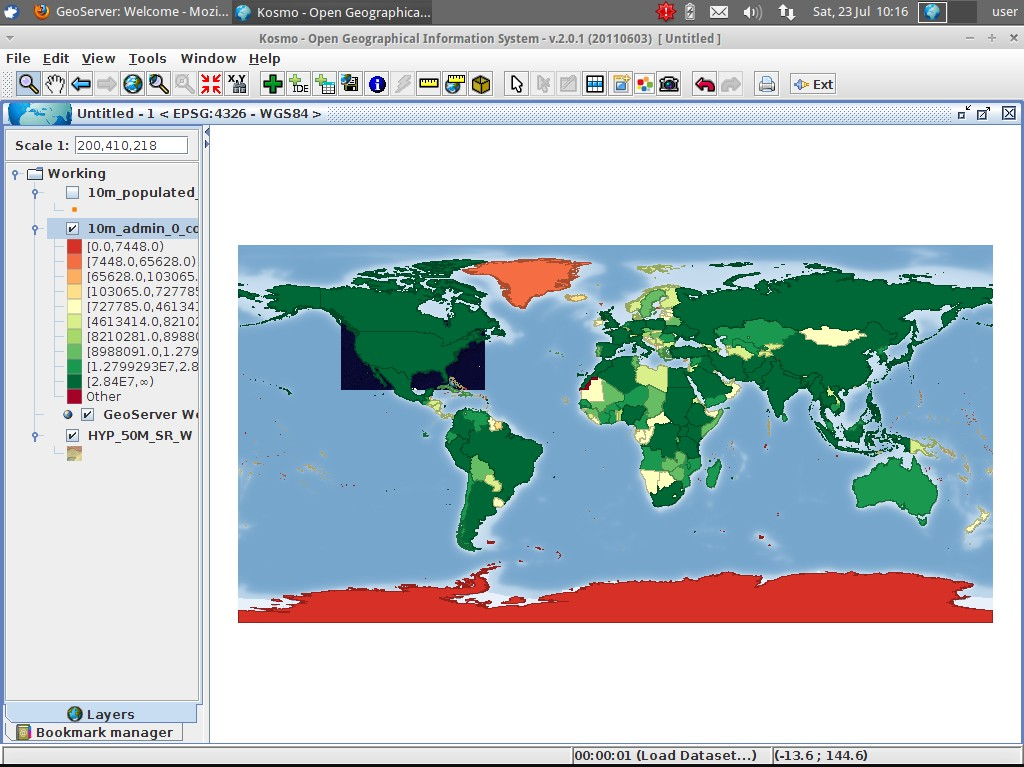
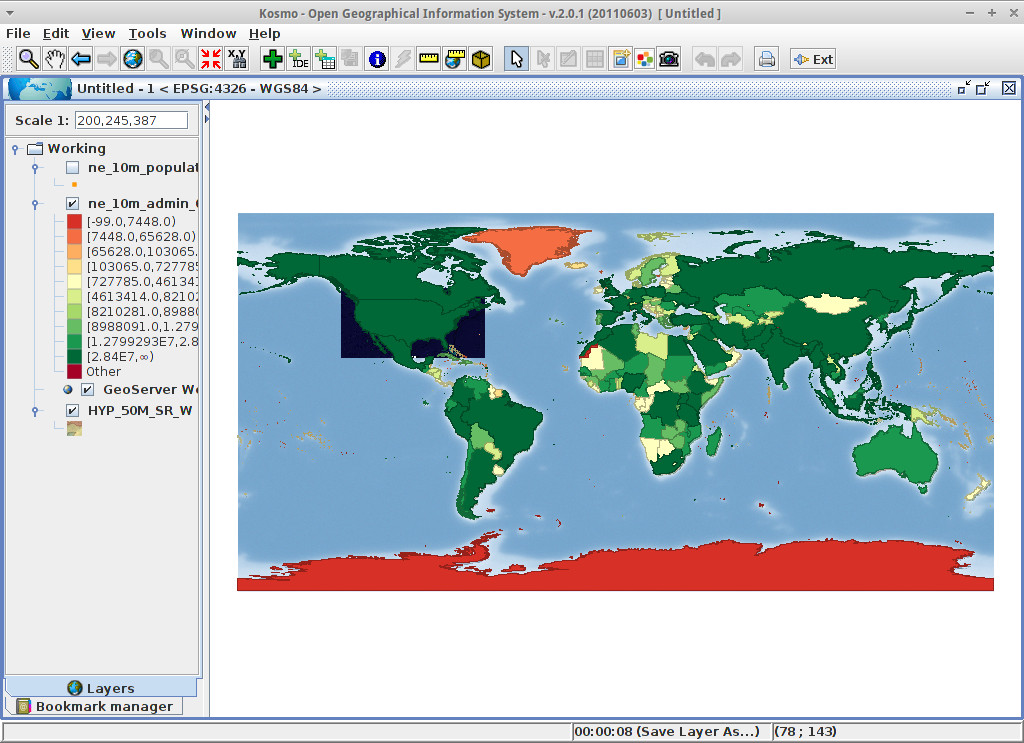
1) Added new Advanced Styling and Extensions sections 2) Updated previous screenshots to reflect the natural_earth2 dataset name changes 3) Changed some file name paths

diff --git a/livedvd/gisvm/trunk/doc/en/quickstart/kosmo_quickstart.rst b/livedvd/gisvm/trunk/doc/en/quickstart/kosmo_quickstart.rst
@@ -95,19 +95,19 @@ To start out, we're going to load some of the sample data included on the OSGeo-
 
 #. In the *Format* combobox, select *Shapefile* (**1**)
 
-#. In the file chooser, select the file :file:`ne_10m_admin_0_countries.shp` from the directory :file:`/usr/local/share/data/natural_earth2` (**2**)
+#. In the file chooser, select the file :file:`ne_10m_admin_0_countries.shp` from the directory :file:`/home/user/data/natural_earth2` (**2**)
 
 #. Press the *Ok* button to load the selected shapefile (**3**)
 
    .. image:: ../../images/screenshots/800x600/kosmo_select_shape_file.png
 
-#. In the layer tree, press the visibility checkbox to make the layer visible, right clicking on the *Working* folder if needed
+#. In the layer tree, press the visibility checkbox to make the layer visible
 
 #. Choose again the option *View > Load Dataset...* or push the button with the green plus from the main toolbar
 
 #. In the *Format* combobox, select *Image file* (**1**)
 
-#. In the file chooser, select the file :file:`HYP_50M_SR_W.tif` from the directory :file:`/usr/local/share/data/natural_earth2/` (**2**)
+#. In the file chooser, select the file :file:`HYP_50M_SR_W.tif` from the directory :file:`/home/user/data/natural_earth2/` (**2**)
 
 #. Press the *Ok* button to load the selected image file (**3**)
 
@@ -122,8 +122,8 @@ To start out, we're going to load some of the sample data included on the OSGeo-
 .. note::
   The OSGeo-Live DVD contains some file data examples in the following directories:
   
-  * :file:`~/data` (a shortcut to :file:`/usr/local/share/data` or :file:`/home/user/data`)
-  * :file:`/usr/local/share/openjump/data`
+  * :file:`/home/user/data` (shapefiles and raster files)
+  * :file:`/usr/local/share/OpenJUMP/sample_data` (shapefiles)
       
   You can try to load more examples from those directories. Remember to select the correct format from the *Format* combobox       
 
@@ -274,8 +274,7 @@ Apart from those tools, it's also available the possibility to zoom in/out by us
   If any tool/menu option is disabled, you can place the cursor over the button/option to see a tooltip where the reason is shown 
 
 
-
-Styling
+Basic Styling
 ================================================================================
 
 In this section we're going to style a layer by range using the country population as styling attribute:
@@ -298,12 +297,86 @@ In this section we're going to style a layer by range using the country populati
 
    .. image:: ../../images/screenshots/1024x768/kosmo_styled_layer_by_range.jpg
      :scale: 70 %
+     
+     
+
+Advanced Styling
+================================================================================
+
+In this section we're going to style a layer with some rules and filters, based on an attribute. The example shows how to create two rules, one for capital populated places and other for the rest of them:
+
+#. Select the layer `ne_10m_populated_places` in the layer tree
+
+#. Right click on it and select the option *Simbology > Advanced Style Editor...*
+
+#. Select the feature type style `ne_10m_populated_places` (**1**) and press the + button (**2**) to add a new rule to it 
+
+   .. image:: ../../images/screenshots/800x600/kosmo_advanced_style_feature_type.png
+ 
+#. Select `Point symbolizer` as symbolizer type (**1**) and press the `Ok` button (**2**)
+
+   .. image:: ../../images/screenshots/800x600/kosmo_advanced_style_symbolizer.png
+
+#. Select the new rule in the tree (**1**) and edit its properties: set **capital_rule** as `Name` (**2**), **Capitals** as `Title` (**3**),activate its filter (**4**) and edit it (**5**)
+
+   .. image:: ../../images/screenshots/800x600/kosmo_advanced_style_capital_rule.png
+
+#. Select **featurecla** as `Field` (**1**), **Equal to (=)** as `Operator` (**2**) and press the `...` button (**3**) to select an attribute value
+
+   .. image:: ../../images/screenshots/800x600/kosmo_advanced_style_filter.png
+
+#. Select the **Admin-0 capital** value (**1**) and press the `Ok` button (**2**)
+
+   .. image:: ../../images/screenshots/800x600/kosmo_advanced_style_attr_value.png
+
+#. Press the `Add` button (**1**) to add the condition to the filter and the `Ok` button (**2**) to set the filter to the rule
+
+   .. image:: ../../images/screenshots/800x600/kosmo_advanced_style_filter_2.png
+
+#. Select the capital rule point symbolizer in the tree (**1**) and edit its properties: set its `Size` to **8** (**2**), its `Well Known Mark` type as **circle** (**3**) and `Color` to light green (**4**)
+
+   .. image:: ../../images/screenshots/800x600/kosmo_advanced_style_capital_rule_symbolizer.png
+
+#. Select the other rule in the tree (**1**) and edit its properties: set **others_rule** as `Name` (**2**), **Others** as `Title` (**3**), mark the `Else filter` checkbox (**4**) and set its maximum scale to **25,000,000** (**5**) (it's necessary to press ENTER key after setting the value manually to set it)
+
+   .. image:: ../../images/screenshots/800x600/kosmo_advanced_style_others_rule.png
+
+#. Press the *Ok* button to apply the changes
+
+#. The layer will change its style to reflect the changes:
+
+   .. image:: ../../images/screenshots/1024x768/kosmo_styled_layer_by_filter.jpg
+     :scale: 70 %
+     
+     
+.. note::
+  When the map is at full layer scale only capitals are shown. If you zoom in close enough, all the populated places would be shown
+
+
+Extensions
+================================================================================
+
+In this section we're going to activate the Sextante toolbox extension:
+
+#. Choose the option *File > Extension Manager...* or push the button with the `Ext` text from the main toolbar
+
+#. Mark the Sextante extension checkbox (**1**) and press the `Ok` button (**2**)
+
+   .. image:: ../../images/screenshots/800x600/kosmo_extension_manager.png
+
+#. A new Sextante button will be available at the right of the main toolbar
+
+   .. image:: ../../images/screenshots/800x600/kosmo_sextante_extension.png
+
+.. tip:: 
+  If the `Mark as default` option is selected, the extension would be loaded automatically on next application startup
+
 
 
 Things to Try
 ================================================================================
 
-* Use the advanced style editor (`Symbology > Advanced style editor...`) to create more complex styles
+* Use the Advanced Style editor (`Symbology > Advanced style editor...`) to create more complex styles
 
 * Use the `Query wizard` to select those features that accomplish a given criteria
 
@@ -311,7 +384,10 @@ Things to Try
 
 * Generate a set of topology rules for a layer and try to edit it
 
-* Activate the set of extensions that form part of the application and see the new tools that are present
+* Activate the rest of extensions that form part of the application and see the new tools that are present
+
+* Configure the application options through the menu option *File > Configuration...*
+
 
 
 What Next?
